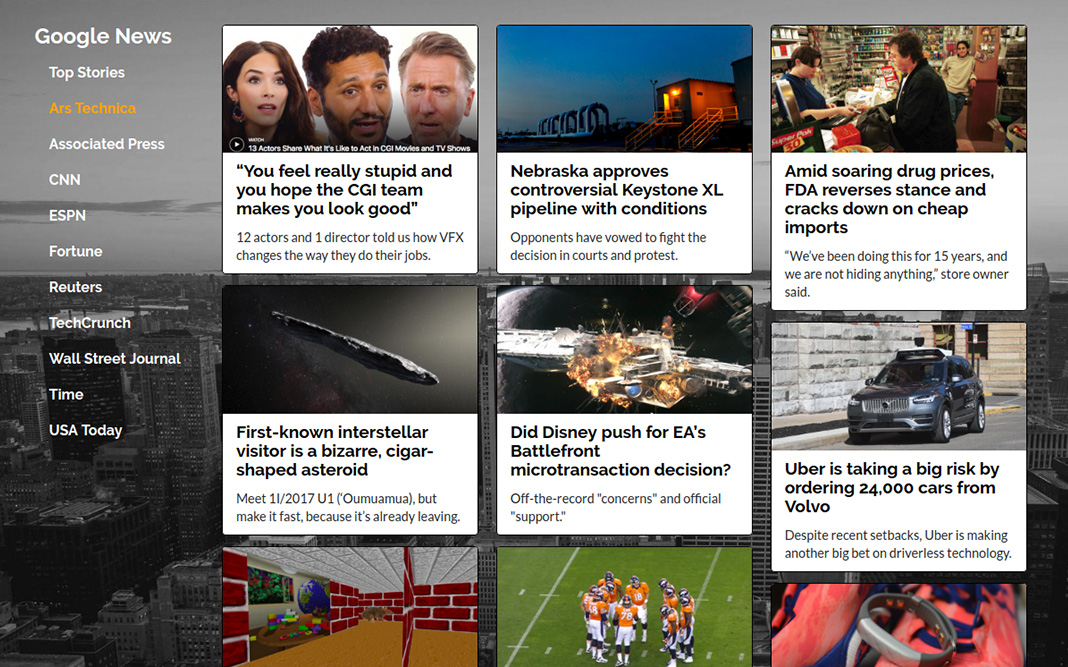
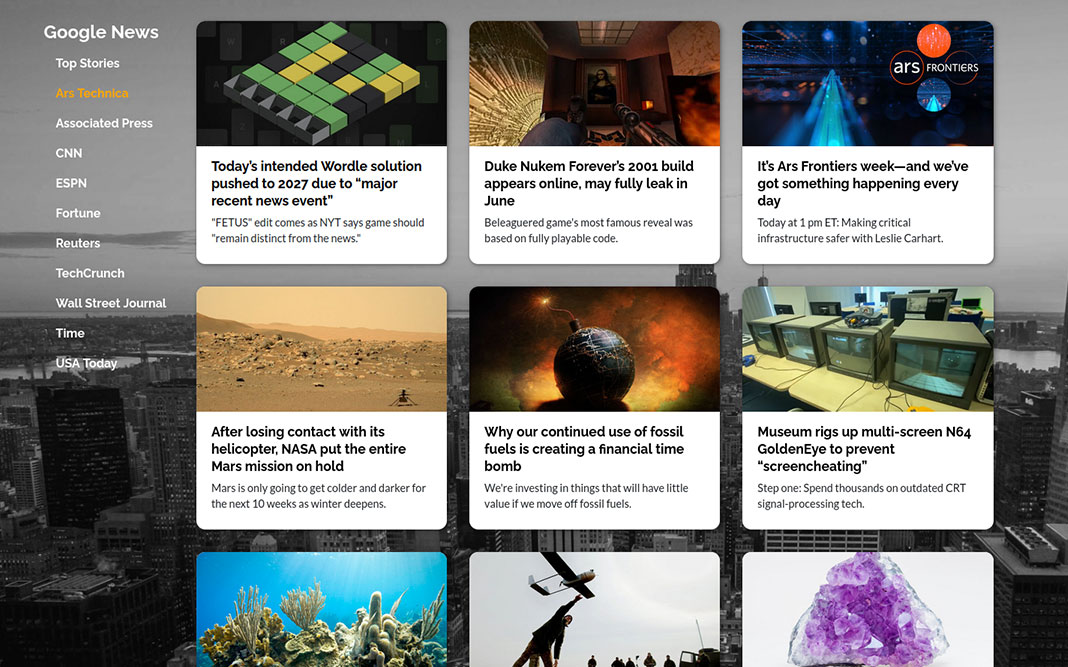
Update README and screenshot image

diff --git a/README.md b/README.md
@@ -1,20 +1,20 @@
 # React Google News
-A simple [React](https://reactjs.org/) front end application using the [Google News API](https://newsapi.org/).
-
 ![screenshot](readme_react_google_news.jpg)
 
+### A simple [React](https://reactjs.org/) front end application using the [Google News API](https://newsapi.org/).
+React Google News uses a lightweight Node Express back end to reroute API queries to a React front end. It displays trending articles in a responsive card grid format and allows the user to select from several popular news websites.
+
 ## Demo App
-Sample application deployed on Heroku: https://react-google-news.herokuapp.com
+You can see a demo version of this application deployed to Heroku here: https://react-google-news.herokuapp.com
 
 ## Application Info
-Configured with [Node Package Manager](https://www.npmjs.com/), [Webpack](https://webpack.js.org/), and [Babel](https://babeljs.io/).
+The project is configured with [Node Package Manager](https://www.npmjs.com/), [Webpack](https://webpack.js.org/), and [Babel](https://babeljs.io/).
 
-Uses webpack-merge to separate development and production builds, but keep common configuration. Also configured for hot reloads in the Express server, so Webpack will rebuild when changes are made.
+It uses [webpack-merge](https://www.npmjs.com/package/webpack-merge) to separate development and production builds, but keep a common, reusable configuration. It is also configured for hot reloads in the Express server, so Webpack will rebuild when changes are made.
 
-An Express back end is used to make API requests and protect the API key. Configure API key locally with [dotenv](https://www.npmjs.com/package/dotenv). For production, set an environment variable manually (through command line: NODE_ENV=production, API_KEY=...).
+An Express back end is used to make API requests and protect the API key. Routes are configured for a select number of news websites to query articles from. All routes can be found in the [server.js](../master/server.js) file.
 
-Implements Bootstrap via [Reactstrap](https://reactstrap.github.io/).
-Makes front end API calls with [fetch](https://github.com/github/fetch).
+The application implements Bootstrap via [Reactstrap](https://reactstrap.github.io/). It makes front end API calls with [fetch](https://github.com/github/fetch).
 
 ## Commands
 
@@ -22,7 +22,7 @@ Makes front end API calls with [fetch](https://github.com/github/fetch).
 
 `npm run start` - Run the Express server via Node.
 
-`npm run dev` - Build for development and run Express server.
+`npm run dev` - Build for development and run the Express server. Code changes will be implemented automatically through hot reloading.
 
 ## Install Instructions
 Node Package Manager (NPM) is used for dependencies. To install the application locally, follow these instructions:
@@ -30,6 +30,8 @@ Node Package Manager (NPM) is used for dependencies. To install the application 
 1. Install [Node.js](https://nodejs.org/). NPM comes packaged with it.
 2. Run `npm install` in the command line while in the project directory. It will install dependencies from the [package.json file](../master/package.json).
 3. To build for development and run the local dev server at http://localhost:5000, run `npm run dev`. It will run the Node/Express application in the [server.js file](../master/server.js).
+
+In order to access the News API, you must go to the API website and sign up for an account [here](https://newsapi.org/). Once you have an API key, configure it locally with [dotenv](https://www.npmjs.com/package/dotenv). Create a .env file and set `API_KEY="insert API key here"`. For production, set an environment variable manually through command line: `NODE_ENV=production, API_KEY=...`.
 
 ## License
 This project is open source under the terms of the [MIT License](http://opensource.org/licenses/MIT).
